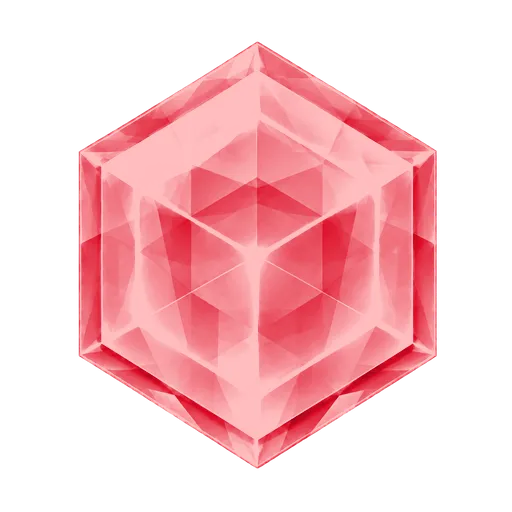
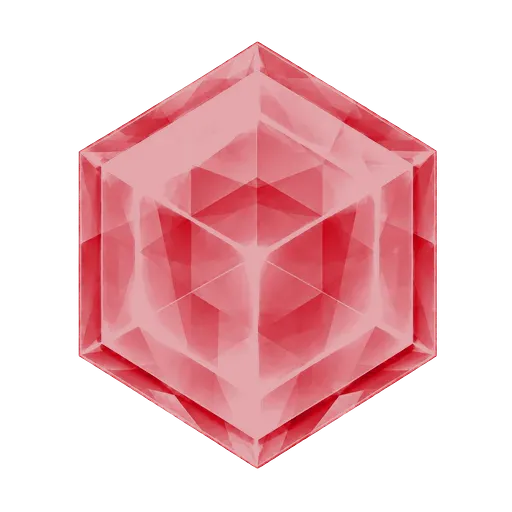
#148 ランクゲージ/宝石/バッジの新素材（正方形1254×1254のU型枠＋バッジ背景の魔法陣）を反映
- 枠を正方形1254×1254に差し替え、バッジ背景（魔法陣）を新規レイヤーで追加
- rank-showcase: 背景img→枠img→宝石→バッジ の4レイヤー化、バッジを枠中央基準に
- aspect-ratio 1536/1024→1/1、新ソケット位置（推定・調整モードで微調整前提）
- 静止バッジ・宝石も新デザインに差し替え。アニメ版バッジは旧のまま（要差し替え）

Changed region(s): [[0.1562, 0.0625, 0.875, 0.9062]]

diff --git a/src/rank-showcase.js b/src/rank-showcase.js
@@ -7,23 +7,24 @@
 // admin.jsのCSS変数調整と同じ思想）。編集モードでドラッグ移動／ホイールでサイズ変更し、
 // 「座標を出力」で得たリテラルを開発者に渡す。
 
-import { buildRankBadgeImage, rankGemPath, RANK_GAUGE_FRAME_U } from "./rank-badge.js";
+import { buildRankBadgeImage, rankGemPath, RANK_GAUGE_FRAME_U, RANK_GAUGE_BADGE_BG } from "./rank-badge.js";
 
-// ★製作者が焼き込む「バッジ＋ゲージ＋宝石」の配置（ユーザーが調整モードで調整・2026-08-16）。
+// ★製作者が焼き込む「バッジ背景＋U型ゲージ＋宝石＋バッジ」の配置（ユーザーが調整モードで調整）。
+// 枠は正方形1254×1254（U字は下側、バッジは中央）。badgeX/badgeY は枠中央からのオフセット（rem）。
 export const RANK_SHOWCASE = {
-  gaugeSize: 20, // U型枠の幅（rem）。高さは 1536:1024 のaspectで自動。
+  gaugeSize: 20, // 枠（正方形）の幅＝高さ（rem）。
   gemSize: 15, // 宝石の大きさ（枠幅に対する%）。ソケットにフィットさせる。
-  badgeSize: 16.4, // 称号バッジの大きさ（rem）。
-  badgeX: 0, // バッジの水平オフセット（rem、＋で右）。中央基準。
-  badgeY: -8.3, // バッジの垂直位置（rem、枠の上端から。U字の開いた中央に置く。負で上へはみ出す）。
+  badgeSize: 11, // 称号バッジの大きさ（rem）。中央の魔法陣内に収める。
+  badgeX: 0, // バッジの水平オフセット（rem、＋で右）。枠中央基準。
+  badgeY: 0, // バッジの垂直オフセット（rem、＋で下）。枠中央基準。
   sockets: [
-    { x: 8.6, y: 23.5 },
-    { x: 15.3, y: 49.8 },
-    { x: 29, y: 68.4 },
-    { x: 50, y: 76.2 },
-    { x: 71, y: 68.4 },
-    { x: 84.7, y: 49.4 },
-    { x: 91.1, y: 23.5 },
+    { x: 14, y: 39 },
+    { x: 21, y: 55 },
+    { x: 33.5, y: 68 },
+    { x: 50, y: 70.5 },
+    { x: 66.5, y: 68 },
+    { x: 79, y: 55 },
+    { x: 86, y: 39 },
   ],
 };
 
@@ -33,7 +34,7 @@ function litCount(rank, gauge) {
   return Math.max(0, Math.min(7, gauge ?? 0));
 }
 
-const FRAME_RATIO = 1024 / 1536; // 高さ / 幅
+const FRAME_RATIO = 1; // 正方形（高さ/幅）
 
 // バッジ／宝石／ゲージの大きさ（gaugeSize/gemSize/badgeSize）を box に反映する。ドラッグ位置は
 // 別途 buildRankShowcase / drag で反映済み。編集モードのリサイズ後の再適用にも使う。
@@ -48,16 +49,39 @@ function applyShowcaseSizes(box) {
   }
 }
 
+// バッジ上端が枠の上へはみ出す量（rem）。中央基準なので badge top = gaugeSize/2 + badgeY - badgeSize/2。
+function badgeTopOverflowRem() {
+  const cfg = RANK_SHOWCASE;
+  const badgeTop = cfg.gaugeSize / 2 + cfg.badgeY - cfg.badgeSize / 2;
+  return Math.max(0, -badgeTop);
+}
+
 // バッジ＋U型ゲージ＋宝石の合成ブロック。scale で全体を等倍縮小できる（ホーム/マイページの
 // コンパクト表示用。バッジ・宝石・ゲージの関係を保ったまま小さくなる）。
 // editable=true で編集モード（ドラッグ／ホイール）を配線し、onChange で変更を通知する。
+// レイヤーは DOM順（後ろ→前）: バッジ背景 → U型ゲージ枠 → 宝石 → バッジ。
 export function buildRankShowcase(rank, gauge, legendPoints, { animated = false, editable = false, onChange, scale = 1 } = {}) {
   const cfg = RANK_SHOWCASE;
   const box = document.createElement("div");
   box.className = "rank-showcase" + (editable ? " is-editable" : "");
   box.style.width = `${cfg.gaugeSize}rem`;
   box.style.setProperty("--rank-ugauge-gem", `${cfg.gemSize}%`);
-  box.style.backgroundImage = `url("${RANK_GAUGE_FRAME_U}")`;
+
+  // バッジ背景（魔法陣、枠いっぱい・最背面）。
+  const bg = document.createElement("img");
+  bg.className = "rank-showcase-bg";
+  bg.src = RANK_GAUGE_BADGE_BG;
+  bg.alt = "";
+  bg.draggable = false;
+  box.appendChild(bg);
+
+  // U型ゲージ枠（枠いっぱい）。
+  const frame = document.createElement("img");
+  frame.className = "rank-showcase-frame";
+  frame.src = RANK_GAUGE_FRAME_U;
+  frame.alt = "";
+  frame.draggable = false;
+  box.appendChild(frame);
 
   const lit = litCount(rank, gauge);
   const gems = [];
@@ -79,7 +103,7 @@ export function buildRankShowcase(rank, gauge, legendPoints, { animated = false,
   const badge = buildRankBadgeImage(rank, { animated, size: `${cfg.badgeSize}rem` });
   badge.classList.add("rank-showcase-badge");
   badge.style.left = `calc(50% + ${cfg.badgeX}rem)`;
-  badge.style.top = `${cfg.badgeY}rem`;
+  badge.style.top = `calc(50% + ${cfg.badgeY}rem)`;
   box.appendChild(badge);
 
   if (editable) {
@@ -89,10 +113,9 @@ export function buildRankShowcase(rank, gauge, legendPoints, { animated = false,
 
   // 等倍縮小表示（コンパクト表示）：footprintを縮小後サイズに合わせるためラッパーで包む。
   if (scale !== 1) {
-    // バッジは badgeY が負だと枠の上へはみ出す。そのぶんの高さをラッパー上部に確保しておくと、
-    // 上に置くラベル（「あなたのランク」等）がバッジと重ならない（ユーザー報告2026-08-16、
-    // どんなバッジ設定でも自動で追従）。
-    const overflowTopRem = Math.max(0, -cfg.badgeY) * scale;
+    // バッジが枠の上へはみ出す分の高さをラッパー上部に確保しておくと、上に置くラベル
+    // （「あなたのランク」等）がバッジと重ならない（どんな設定でも自動追従）。
+    const overflowTopRem = badgeTopOverflowRem() * scale;
     const frameWRem = cfg.gaugeSize * scale;
     const frameHRem = cfg.gaugeSize * FRAME_RATIO * scale;
     const wrap = document.createElement("div");
@@ -156,7 +179,7 @@ function wireShowcaseEditing(box, badge, gems, onChange) {
         cfg.badgeX = round1(base.x + dx / s / 16);
         cfg.badgeY = round1(base.y + dy / s / 16);
         badge.style.left = `calc(50% + ${cfg.badgeX}rem)`;
-        badge.style.top = `${cfg.badgeY}rem`;
+        badge.style.top = `calc(50% + ${cfg.badgeY}rem)`;
       } else {
         // 宝石：枠に対する%（frameは実画面px、dxも実画面pxなので比率はscale非依存）
         cfg.sockets[gi].x = round1(base.x + (dx / frame.width) * 100);

diff --git a/src/style.css b/src/style.css
@@ -15560,7 +15560,7 @@ body.opening-screen-active.is-admin-user #smoke-test-launch-btn {
    宝石ソケット。ゲージが貯まるほど左（赤）→右（紫）へ宝石が点灯する。 */
 .rank-ugauge {
   position: relative;
-  aspect-ratio: 1536 / 1024;
+  aspect-ratio: 1 / 1;
   background-image: url("../assets/rank-gauge/frame-u.webp");
   background-size: 100% 100%;
   background-repeat: no-repeat;
@@ -15582,13 +15582,22 @@ body.opening-screen-active.is-admin-user #smoke-test-launch-btn {
 }
 body.reduce-glow .rank-ugauge-gem { animation: none; }
 
-/* バッジ＋U型ゲージ＋宝石の合成ヒーロー表示（rank-showcase.js）。 */
+/* バッジ背景＋U型ゲージ枠＋宝石＋バッジの合成ヒーロー表示（rank-showcase.js）。
+   枠は正方形（1254×1254）。レイヤーはDOM順（後ろ→前）: 背景 → 枠 → 宝石 → バッジ。 */
 .rank-showcase {
   position: relative;
-  aspect-ratio: 1536 / 1024;
-  background-size: 100% 100%;
-  background-repeat: no-repeat;
+  aspect-ratio: 1 / 1;
   filter: drop-shadow(0 3px 12px rgba(0, 0, 0, 0.5));
+}
+/* バッジ背景（魔法陣、最背面）とU型ゲージ枠は枠いっぱいに敷く。掴めるのは宝石・バッジだけ。 */
+.rank-showcase-bg,
+.rank-showcase-frame {
+  position: absolute;
+  inset: 0;
+  width: 100%;
+  height: 100%;
+  object-fit: contain;
+  pointer-events: none;
 }
 .rank-showcase-gem {
   position: absolute;
@@ -15599,7 +15608,7 @@ body.reduce-glow .rank-ugauge-gem { animation: none; }
 }
 .rank-showcase-badge {
   position: absolute;
-  transform: translate(-50%, 0);
+  transform: translate(-50%, -50%);
   object-fit: contain;
   filter: drop-shadow(0 2px 8px rgba(0, 0, 0, 0.5));
 }
@@ -15689,4 +15698,5 @@ body.reduce-glow .rank-ugauge-gem { animation: none; }
   justify-content: center;
   min-height: 0;
 }
-.rank-showcase-editor-stage .rank-showcase { width: 34rem; }
+/* 枠は正方形なので、幅＝高さ。ステージの縦に収まるよう vh でも上限する。 */
+.rank-showcase-editor-stage .rank-showcase { width: min(32rem, 66vh); }

diff --git a/src/rank-badge.js b/src/rank-badge.js
@@ -68,6 +68,10 @@ export function buildSevenColorGauge(rank, gauge, legendPoints) {
 // （小さいスロットは従来の7ドット buildSevenColorGauge を使う）。
 export const RANK_GAUGE_FRAME_U = "assets/rank-gauge/frame-u.webp";
 export const RANK_GAUGE_FRAME_LINE = "assets/rank-gauge/frame-line.webp";
+// バッジ背景（魔法陣風の同心円、1254×1254。バッジの背面に重ねる。ユーザー追加2026-08-16）。
+export const RANK_GAUGE_BADGE_BG = "assets/rank-gauge/badge-bg.webp";
+// 枠は正方形1254×1254（旧1536×1024から差し替え。U字は下側に配置）。
+export const RANK_GAUGE_FRAME_RATIO = 1; // 高さ/幅
 export const GEM_FILES = [
   "gem-01-red",
   "gem-02-orange",
@@ -77,16 +81,16 @@ export const GEM_FILES = [
   "gem-06-pink",
   "gem-07-purple",
 ];
-// 枠(1536×1024)に対する各ソケット中心の位置（%）。U字に沿って左上→下中央→右上。左右対称。
+// 枠(正方形1254×1254)に対する各ソケット中心の位置（%）。U字は下側に配置、左上→下中央→右上。
 // ※ラスター枠に合わせた実測ベースの推定値。調整モード（rank-showcase.js）で微調整できる。
 export const DEFAULT_U_SOCKETS = [
-  { x: 9.8, y: 24.4 }, // 1 赤（左上）
-  { x: 15.6, y: 49.8 }, // 2 橙
-  { x: 29.0, y: 68.4 }, // 3 黄
-  { x: 50.0, y: 76.2 }, // 4 緑（下中央）
-  { x: 71.0, y: 68.4 }, // 5 青
-  { x: 84.4, y: 49.8 }, // 6 桃
-  { x: 90.2, y: 24.4 }, // 7 紫（右上）
+  { x: 14, y: 39 }, // 1 赤（左上）
+  { x: 21, y: 55 }, // 2 橙
+  { x: 33.5, y: 68 }, // 3 黄
+  { x: 50, y: 70.5 }, // 4 緑（下中央）
+  { x: 66.5, y: 68 }, // 5 青
+  { x: 79, y: 55 }, // 6 桃
+  { x: 86, y: 39 }, // 7 紫（右上）
 ];
 const U_SOCKETS = DEFAULT_U_SOCKETS;
 

diff --git a/src/app-version.js b/src/app-version.js
@@ -1,3 +1,3 @@
 // 自動生成（.git/hooks/pre-commit）。デプロイのたびに更新される「今実行しているコード」の
 // バージョン。version.json と必ず同じ値になる。update-checker.js が使う基準値。
-export const APP_VERSION = "20260816-205535";
+export const APP_VERSION = "20260816-223002";

diff --git a/CLAUDE.md b/CLAUDE.md
@@ -13600,3 +13600,36 @@ style.css の var() fallback の両方へ反映した。
   管理者モードに「📱 スマホ専用：自分のミニロックエリアの位置・サイズ」グループを追加。実測で
   scale・bottom がスマホ専用varに反応することを確認。
 - `node --check` 通過。サーバー側の変更は無い。
+
+### 2026-08-16（続き148）：ランクゲージ/宝石/バッジの新素材（正方形1254×1254のU型枠＋バッジ背景の魔法陣）を反映
+
+ユーザーがランク素材を差し替え（「ランクゲージ、ランクゲージ用ジェム、ランクバッジの画像
+差し替えました。あとランクバッジ用背景も追加しました」）。枠が旧1536×1024（横長U）から
+**正方形1254×1254（下側にU字ソケット、中央にバッジ）** に、静止バッジが豪華な金メダリオンに、
+7宝石も新デザインに。加えて **バッジ背景（魔法陣風の同心円、1254×1254、バッジの背面に敷く）** を
+新規追加。合成ヒーロー表示（rank-badge.js / rank-showcase.js / style.css）を新素材に合わせて作り直した。
+- **素材取り込み**: `画像素材/ランクゲージ`（gitignore）→ `assets/rank-gauge/`（公開）へ `frame-u.webp`
+  （1254×1254に差し替え）・`badge-bg.webp`（新規）・`gem-01..07`（差し替え）をコピー。静止バッジは
+  `画像素材/ランクバッジ/静止/rank-badge-{key}.webp` → `assets/rank-badges/{key}.webp`。
+- **rank-badge.js**: `RANK_GAUGE_BADGE_BG`（バッジ背景）・`RANK_GAUGE_FRAME_RATIO=1`（正方形）を
+  追加。`DEFAULT_U_SOCKETS` を新枠の7ソケット位置（正方形に対する%、下側U字）に更新。
+- **rank-showcase.js `buildRankShowcase`**: 従来は枠を `box` の背景画像＋バッジを上方（top基準）に
+  置いていたが、**DOM順で 背景img → U型枠img → 宝石 → バッジ の4レイヤー**に作り直し。バッジは
+  枠中央基準（`left: calc(50%+badgeX); top: calc(50%+badgeY); translate(-50%,-50%)`）で魔法陣内に収める。
+  `FRAME_RATIO=1`。バッジ上端の枠上はみ出し量計算（縮小ラッパーのラベル重なり回避）も中央基準に更新。
+  ドラッグ編集の badge top も `calc(50%+…)` に合わせた。`RANK_SHOWCASE` の既定は
+  gaugeSize20/gemSize15/badgeSize11/badgeX0/badgeY0＋新ソケット（**推定値。調整モードで微調整して
+  出力→焼き込む前提**）。
+- **style.css**: `.rank-ugauge`/`.rank-showcase` の `aspect-ratio` を `1536/1024`→`1/1`。`.rank-showcase` の
+  背景画像方式をやめ、`.rank-showcase-bg`/`.rank-showcase-frame`（`inset:0; width/height:100%;
+  object-fit:contain; pointer-events:none`）の子imgレイヤーに。バッジの `translate(-50%,0)`→
+  `translate(-50%,-50%)`。編集ステージの枠幅を正方形前提で `min(32rem,66vh)` に。
+- **検証**: ブラウザで、合成表示（gold・gauge4）が正方形384×384・背景/枠とも1254×1254で読み込み成功・
+  7宝石中4点灯・全宝石ロード成功・バッジ(gold.webp)ロード成功で**枠中央に正確にセンタリング**
+  （中心=192.5＝箱中心）を実測。縮小0.4版のラッパーが正方形・バッジ上クリップ無し、調整モードが
+  正方形256×256で7宝石全表示・開閉正常を確認。`node --check` 通過。
+- **注意（ユーザーへ）**: **アニメ版バッジ（`{key}-animated.webp`、結果モーダルのヒーローで使用）は
+  旧素材のまま**（今回差し替えられたのは静止版のみ）。新しい静止デザインと見た目が食い違うため、
+  アニメ版も新デザインで用意できたら差し替えたい。ソケット位置・バッジサイズは推定なので、管理者
+  モードの「🏅 ランクバッジ・ゲージ調整モード」で整えて `RANK_SHOWCASE` を出力・共有してもらえれば焼き込む。
+- サーバー側（Supabase）の変更は無い。
